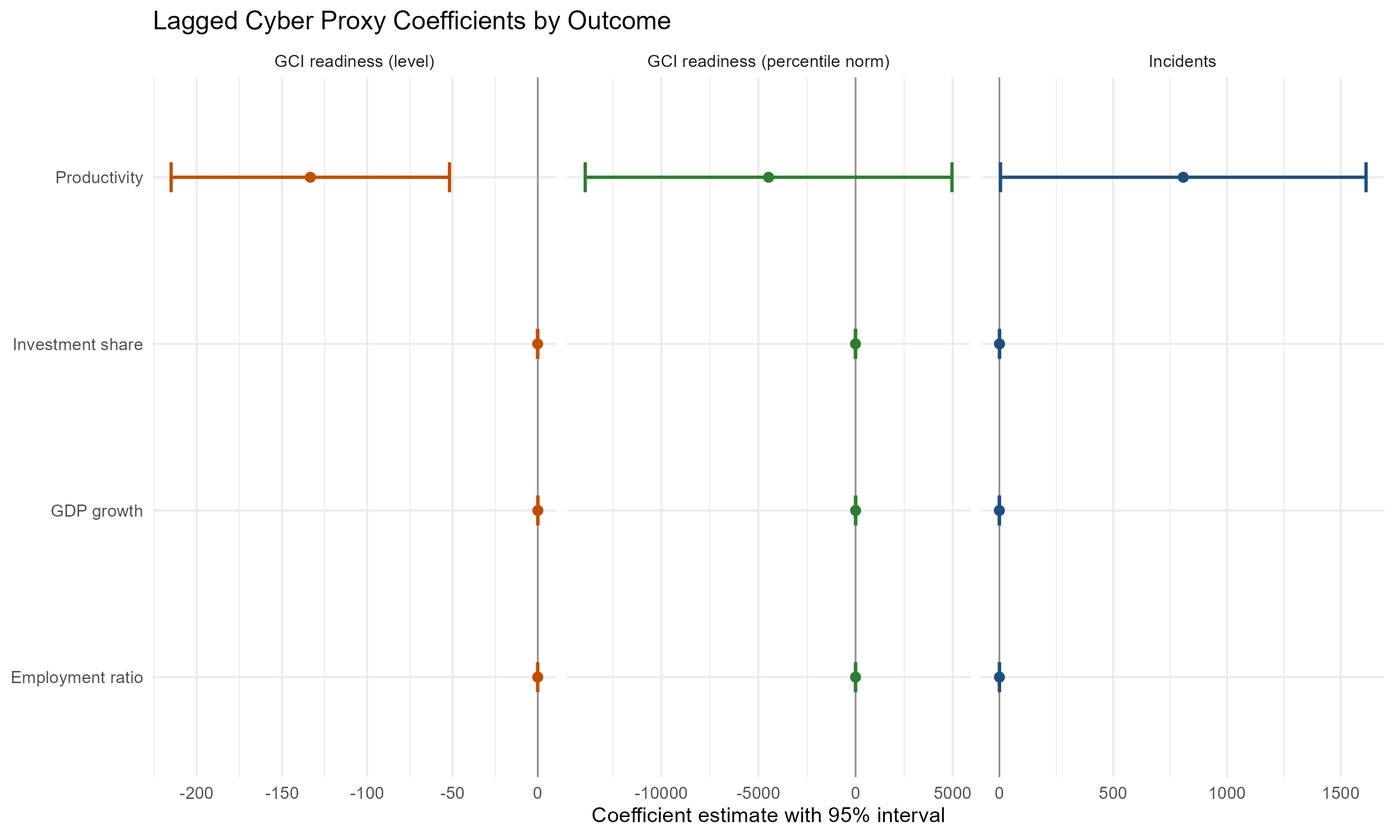
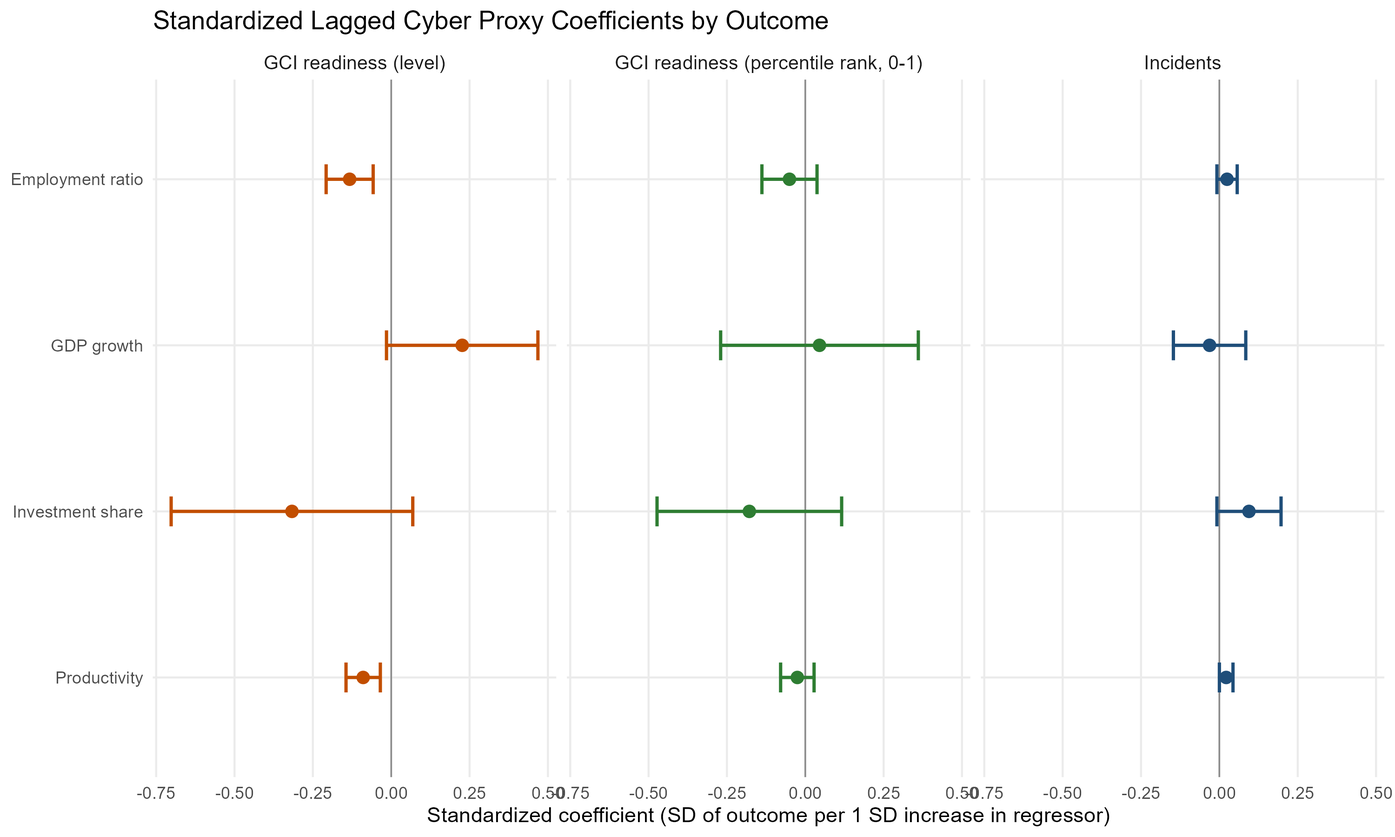
Standardize comparison coefficient figure

diff --git a/output/tables/incidents_vs_readiness_regressions.html b/output/tables/incidents_vs_readiness_regressions.html
@@ -4,7 +4,7 @@
   <head>
     <meta charset="UTF-8">
     <meta name="viewport" content="width=device-width, initial-scale=1.0">
-    <title>tinytable_ecv134pvdpu59y1r7212</title>
+    <title>tinytable_f0i5c3dkbfthkqi19tyy</title>
     <link href="https://cdn.jsdelivr.net/npm/bootstrap@5.3.2/dist/css/bootstrap.min.css" rel="stylesheet">
   </head>
   <body>
@@ -12,8 +12,8 @@
 
     <script>
 
-      function styleCell_ecv134pvdpu59y1r7212(i, j, css_id) {
-          var table = document.getElementById("tinytable_ecv134pvdpu59y1r7212");
+      function styleCell_f0i5c3dkbfthkqi19tyy(i, j, css_id) {
+          var table = document.getElementById("tinytable_f0i5c3dkbfthkqi19tyy");
           var cell = table.rows[i]?.cells[j];  // Safe navigation to avoid errors
           if (cell) {
               console.log(`Styling cell at (${i}, ${j}) with class ${css_id}`);
@@ -23,7 +23,7 @@
           }
       }
       function insertSpanRow(i, colspan, content) {
-        var table = document.getElementById('tinytable_ecv134pvdpu59y1r7212');
+        var table = document.getElementById('tinytable_f0i5c3dkbfthkqi19tyy');
         var newRow = table.insertRow(i);
         var newCell = newRow.insertCell(0);
         newCell.setAttribute("colspan", colspan);
@@ -31,8 +31,8 @@
         // this may be unsafe, but innerText does not interpret <br>
         newCell.innerHTML = content;
       }
-      function spanCell_ecv134pvdpu59y1r7212(i, j, rowspan, colspan) {
-        var table = document.getElementById("tinytable_ecv134pvdpu59y1r7212");
+      function spanCell_f0i5c3dkbfthkqi19tyy(i, j, rowspan, colspan) {
+        var table = document.getElementById("tinytable_f0i5c3dkbfthkqi19tyy");
         const targetRow = table.rows[i];
         const targetCell = targetRow.cells[j];
         for (let r = 0; r < rowspan; r++) {
@@ -62,20 +62,20 @@
       window.addEventListener('load', function () {
           var cellsToStyle = [
             // tinytable style arrays after
-          { positions: [ { i: 13, j: 4 }, { i: 13, j: 10 }, { i: 13, j: 7 }, { i: 13, j: 1 }, { i: 13, j: 2 }, { i: 13, j: 3 }, { i: 13, j: 5 }, { i: 13, j: 6 }, { i: 13, j: 8 }, { i: 13, j: 9 }, { i: 13, j: 11 }, { i: 13, j: 12 },  ], css_id: 'tinytable_css_p4causuuhxydtj86vz4f',}, 
-          { positions: [ { i: 12, j: 4 }, { i: 12, j: 5 }, { i: 12, j: 10 }, { i: 12, j: 11 }, { i: 12, j: 7 }, { i: 12, j: 8 }, { i: 12, j: 2 }, { i: 12, j: 3 }, { i: 12, j: 6 }, { i: 12, j: 1 }, { i: 12, j: 9 }, { i: 12, j: 12 },  ], css_id: 'tinytable_css_201s4wzyjvv98hfe48g5',}, 
-          { positions: [ { i: 10, j: 1 }, { i: 10, j: 4 }, { i: 9, j: 1 }, { i: 1, j: 1 }, { i: 3, j: 1 }, { i: 11, j: 4 }, { i: 5, j: 1 }, { i: 11, j: 1 }, { i: 7, j: 1 }, { i: 8, j: 1 }, { i: 8, j: 2 }, { i: 9, j: 2 }, { i: 10, j: 2 }, { i: 11, j: 2 }, { i: 10, j: 5 }, { i: 11, j: 5 }, { i: 1, j: 2 }, { i: 1, j: 3 }, { i: 3, j: 2 }, { i: 3, j: 3 }, { i: 5, j: 2 }, { i: 5, j: 3 }, { i: 7, j: 2 }, { i: 7, j: 3 }, { i: 8, j: 3 }, { i: 9, j: 3 }, { i: 10, j: 3 }, { i: 11, j: 3 }, { i: 10, j: 6 }, { i: 11, j: 6 }, { i: 2, j: 1 }, { i: 1, j: 4 }, { i: 4, j: 1 }, { i: 3, j: 4 }, { i: 6, j: 1 }, { i: 5, j: 4 }, { i: 6, j: 4 }, { i: 7, j: 4 }, { i: 8, j: 4 }, { i: 9, j: 4 }, { i: 8, j: 7 }, { i: 9, j: 7 }, { i: 10, j: 7 }, { i: 11, j: 7 }, { i: 2, j: 2 }, { i: 1, j: 5 }, { i: 4, j: 2 }, { i: 3, j: 5 }, { i: 6, j: 2 }, { i: 5, j: 5 }, { i: 6, j: 5 }, { i: 7, j: 5 }, { i: 8, j: 5 }, { i: 9, j: 5 }, { i: 8, j: 8 }, { i: 9, j: 8 }, { i: 10, j: 8 }, { i: 11, j: 8 }, { i: 2, j: 3 }, { i: 1, j: 6 }, { i: 4, j: 3 }, { i: 3, j: 6 }, { i: 6, j: 3 }, { i: 5, j: 6 }, { i: 6, j: 6 }, { i: 7, j: 6 }, { i: 8, j: 6 }, { i: 9, j: 6 }, { i: 8, j: 9 }, { i: 9, j: 9 }, { i: 10, j: 9 }, { i: 11, j: 9 }, { i: 2, j: 4 }, { i: 1, j: 7 }, { i: 4, j: 4 }, { i: 3, j: 7 }, { i: 4, j: 7 }, { i: 5, j: 7 }, { i: 6, j: 7 }, { i: 7, j: 7 }, { i: 6, j: 10 }, { i: 7, j: 10 }, { i: 8, j: 10 }, { i: 9, j: 10 }, { i: 10, j: 10 }, { i: 11, j: 10 }, { i: 2, j: 5 }, { i: 1, j: 8 }, { i: 4, j: 5 }, { i: 3, j: 8 }, { i: 4, j: 8 }, { i: 5, j: 8 }, { i: 6, j: 8 }, { i: 7, j: 8 }, { i: 6, j: 11 }, { i: 7, j: 11 }, { i: 8, j: 11 }, { i: 9, j: 11 }, { i: 10, j: 11 }, { i: 11, j: 11 }, { i: 2, j: 6 }, { i: 1, j: 9 }, { i: 4, j: 6 }, { i: 3, j: 9 }, { i: 4, j: 9 }, { i: 5, j: 9 }, { i: 6, j: 9 }, { i: 7, j: 9 }, { i: 6, j: 12 }, { i: 7, j: 12 }, { i: 8, j: 12 }, { i: 9, j: 12 }, { i: 10, j: 12 }, { i: 11, j: 12 }, { i: 2, j: 7 }, { i: 1, j: 10 }, { i: 2, j: 10 }, { i: 3, j: 10 }, { i: 4, j: 10 }, { i: 5, j: 10 }, { i: 5, j: 11 }, { i: 5, j: 12 }, { i: 2, j: 11 }, { i: 3, j: 11 }, { i: 2, j: 8 }, { i: 1, j: 11 }, { i: 2, j: 9 }, { i: 1, j: 12 }, { i: 4, j: 11 }, { i: 4, j: 12 }, { i: 2, j: 12 }, { i: 3, j: 12 },  ], css_id: 'tinytable_css_c1its78gbmmuinlsssd4',}, 
-          { positions: [ { i: 0, j: 1 }, { i: 0, j: 2 }, { i: 0, j: 4 }, { i: 0, j: 5 }, { i: 0, j: 7 }, { i: 0, j: 8 }, { i: 0, j: 10 }, { i: 0, j: 11 }, { i: 0, j: 12 }, { i: 0, j: 6 }, { i: 0, j: 3 }, { i: 0, j: 9 },  ], css_id: 'tinytable_css_m8lhvw971z7o2s52qb76',}, 
-          { positions: [ { i: 13, j: 0 },  ], css_id: 'tinytable_css_1qjwynlh6jjx4f71yccl',}, 
-          { positions: [ { i: 12, j: 0 },  ], css_id: 'tinytable_css_i5pbemaolb12dd8akl59',}, 
-          { positions: [ { i: 1, j: 0 }, { i: 2, j: 0 }, { i: 3, j: 0 }, { i: 4, j: 0 }, { i: 5, j: 0 }, { i: 6, j: 0 }, { i: 7, j: 0 }, { i: 8, j: 0 }, { i: 9, j: 0 }, { i: 10, j: 0 }, { i: 11, j: 0 },  ], css_id: 'tinytable_css_r011i5s1ufg29338slek',}, 
-          { positions: [ { i: 0, j: 0 },  ], css_id: 'tinytable_css_1n99m925m0dgbd6exfvg',}, 
+          { positions: [ { i: 13, j: 4 }, { i: 13, j: 10 }, { i: 13, j: 7 }, { i: 13, j: 1 }, { i: 13, j: 2 }, { i: 13, j: 3 }, { i: 13, j: 5 }, { i: 13, j: 6 }, { i: 13, j: 8 }, { i: 13, j: 9 }, { i: 13, j: 11 }, { i: 13, j: 12 },  ], css_id: 'tinytable_css_4oqyls9eijw3j7uhaoks',}, 
+          { positions: [ { i: 12, j: 4 }, { i: 12, j: 5 }, { i: 12, j: 10 }, { i: 12, j: 11 }, { i: 12, j: 7 }, { i: 12, j: 8 }, { i: 12, j: 2 }, { i: 12, j: 3 }, { i: 12, j: 6 }, { i: 12, j: 1 }, { i: 12, j: 9 }, { i: 12, j: 12 },  ], css_id: 'tinytable_css_dprmf267gwi876w7le5j',}, 
+          { positions: [ { i: 10, j: 1 }, { i: 10, j: 4 }, { i: 9, j: 1 }, { i: 1, j: 1 }, { i: 3, j: 1 }, { i: 11, j: 4 }, { i: 5, j: 1 }, { i: 11, j: 1 }, { i: 7, j: 1 }, { i: 8, j: 1 }, { i: 8, j: 2 }, { i: 9, j: 2 }, { i: 10, j: 2 }, { i: 11, j: 2 }, { i: 10, j: 5 }, { i: 11, j: 5 }, { i: 1, j: 2 }, { i: 1, j: 3 }, { i: 3, j: 2 }, { i: 3, j: 3 }, { i: 5, j: 2 }, { i: 5, j: 3 }, { i: 7, j: 2 }, { i: 7, j: 3 }, { i: 8, j: 3 }, { i: 9, j: 3 }, { i: 10, j: 3 }, { i: 11, j: 3 }, { i: 10, j: 6 }, { i: 11, j: 6 }, { i: 2, j: 1 }, { i: 1, j: 4 }, { i: 4, j: 1 }, { i: 3, j: 4 }, { i: 6, j: 1 }, { i: 5, j: 4 }, { i: 6, j: 4 }, { i: 7, j: 4 }, { i: 8, j: 4 }, { i: 9, j: 4 }, { i: 8, j: 7 }, { i: 9, j: 7 }, { i: 10, j: 7 }, { i: 11, j: 7 }, { i: 2, j: 2 }, { i: 1, j: 5 }, { i: 4, j: 2 }, { i: 3, j: 5 }, { i: 6, j: 2 }, { i: 5, j: 5 }, { i: 6, j: 5 }, { i: 7, j: 5 }, { i: 8, j: 5 }, { i: 9, j: 5 }, { i: 8, j: 8 }, { i: 9, j: 8 }, { i: 10, j: 8 }, { i: 11, j: 8 }, { i: 2, j: 3 }, { i: 1, j: 6 }, { i: 4, j: 3 }, { i: 3, j: 6 }, { i: 6, j: 3 }, { i: 5, j: 6 }, { i: 6, j: 6 }, { i: 7, j: 6 }, { i: 8, j: 6 }, { i: 9, j: 6 }, { i: 8, j: 9 }, { i: 9, j: 9 }, { i: 10, j: 9 }, { i: 11, j: 9 }, { i: 2, j: 4 }, { i: 1, j: 7 }, { i: 4, j: 4 }, { i: 3, j: 7 }, { i: 4, j: 7 }, { i: 5, j: 7 }, { i: 6, j: 7 }, { i: 7, j: 7 }, { i: 6, j: 10 }, { i: 7, j: 10 }, { i: 8, j: 10 }, { i: 9, j: 10 }, { i: 10, j: 10 }, { i: 11, j: 10 }, { i: 2, j: 5 }, { i: 1, j: 8 }, { i: 4, j: 5 }, { i: 3, j: 8 }, { i: 4, j: 8 }, { i: 5, j: 8 }, { i: 6, j: 8 }, { i: 7, j: 8 }, { i: 6, j: 11 }, { i: 7, j: 11 }, { i: 8, j: 11 }, { i: 9, j: 11 }, { i: 10, j: 11 }, { i: 11, j: 11 }, { i: 2, j: 6 }, { i: 1, j: 9 }, { i: 4, j: 6 }, { i: 3, j: 9 }, { i: 4, j: 9 }, { i: 5, j: 9 }, { i: 6, j: 9 }, { i: 7, j: 9 }, { i: 6, j: 12 }, { i: 7, j: 12 }, { i: 8, j: 12 }, { i: 9, j: 12 }, { i: 10, j: 12 }, { i: 11, j: 12 }, { i: 2, j: 7 }, { i: 1, j: 10 }, { i: 2, j: 10 }, { i: 3, j: 10 }, { i: 4, j: 10 }, { i: 5, j: 10 }, { i: 5, j: 11 }, { i: 5, j: 12 }, { i: 2, j: 11 }, { i: 3, j: 11 }, { i: 2, j: 8 }, { i: 1, j: 11 }, { i: 2, j: 9 }, { i: 1, j: 12 }, { i: 4, j: 11 }, { i: 4, j: 12 }, { i: 2, j: 12 }, { i: 3, j: 12 },  ], css_id: 'tinytable_css_rntnm1u3oeljhexng0og',}, 
+          { positions: [ { i: 0, j: 1 }, { i: 0, j: 2 }, { i: 0, j: 4 }, { i: 0, j: 5 }, { i: 0, j: 7 }, { i: 0, j: 8 }, { i: 0, j: 10 }, { i: 0, j: 11 }, { i: 0, j: 12 }, { i: 0, j: 6 }, { i: 0, j: 3 }, { i: 0, j: 9 },  ], css_id: 'tinytable_css_6195calqo8x2f29txpq1',}, 
+          { positions: [ { i: 13, j: 0 },  ], css_id: 'tinytable_css_dkbjj6xsdri6622djea5',}, 
+          { positions: [ { i: 12, j: 0 },  ], css_id: 'tinytable_css_8267pkjyl67784qm3k06',}, 
+          { positions: [ { i: 1, j: 0 }, { i: 2, j: 0 }, { i: 3, j: 0 }, { i: 4, j: 0 }, { i: 5, j: 0 }, { i: 6, j: 0 }, { i: 7, j: 0 }, { i: 8, j: 0 }, { i: 9, j: 0 }, { i: 10, j: 0 }, { i: 11, j: 0 },  ], css_id: 'tinytable_css_fs7htn12xcixmpfsjp24',}, 
+          { positions: [ { i: 0, j: 0 },  ], css_id: 'tinytable_css_byzvubivt4o8r6ov403c',}, 
           ];
 
           // Loop over the arrays to style the cells
           cellsToStyle.forEach(function (group) {
               group.positions.forEach(function (cell) {
-                  styleCell_ecv134pvdpu59y1r7212(cell.i, cell.j, group.css_id);
+                  styleCell_f0i5c3dkbfthkqi19tyy(cell.i, cell.j, group.css_id);
               });
           });
       });
@@ -83,17 +83,17 @@
 
     <style>
       /* tinytable css entries after */
-      .table td.tinytable_css_p4causuuhxydtj86vz4f, .table th.tinytable_css_p4causuuhxydtj86vz4f { text-align: center; border-bottom: solid #d3d8dc 0.1em; }
-      .table td.tinytable_css_201s4wzyjvv98hfe48g5, .table th.tinytable_css_201s4wzyjvv98hfe48g5 { text-align: center; border-bottom: solid black 0.05em; }
-      .table td.tinytable_css_c1its78gbmmuinlsssd4, .table th.tinytable_css_c1its78gbmmuinlsssd4 { text-align: center; }
-      .table td.tinytable_css_m8lhvw971z7o2s52qb76, .table th.tinytable_css_m8lhvw971z7o2s52qb76 { text-align: center; border-top: solid #d3d8dc 0.1em; border-bottom: solid #d3d8dc 0.05em; }
-      .table td.tinytable_css_1qjwynlh6jjx4f71yccl, .table th.tinytable_css_1qjwynlh6jjx4f71yccl { text-align: left; border-bottom: solid #d3d8dc 0.1em; }
-      .table td.tinytable_css_i5pbemaolb12dd8akl59, .table th.tinytable_css_i5pbemaolb12dd8akl59 { text-align: left; border-bottom: solid black 0.05em; }
-      .table td.tinytable_css_r011i5s1ufg29338slek, .table th.tinytable_css_r011i5s1ufg29338slek { text-align: left; }
-      .table td.tinytable_css_1n99m925m0dgbd6exfvg, .table th.tinytable_css_1n99m925m0dgbd6exfvg { text-align: left; border-top: solid #d3d8dc 0.1em; border-bottom: solid #d3d8dc 0.05em; }
+      .table td.tinytable_css_4oqyls9eijw3j7uhaoks, .table th.tinytable_css_4oqyls9eijw3j7uhaoks { text-align: center; border-bottom: solid #d3d8dc 0.1em; }
+      .table td.tinytable_css_dprmf267gwi876w7le5j, .table th.tinytable_css_dprmf267gwi876w7le5j { text-align: center; border-bottom: solid black 0.05em; }
+      .table td.tinytable_css_rntnm1u3oeljhexng0og, .table th.tinytable_css_rntnm1u3oeljhexng0og { text-align: center; }
+      .table td.tinytable_css_6195calqo8x2f29txpq1, .table th.tinytable_css_6195calqo8x2f29txpq1 { text-align: center; border-top: solid #d3d8dc 0.1em; border-bottom: solid #d3d8dc 0.05em; }
+      .table td.tinytable_css_dkbjj6xsdri6622djea5, .table th.tinytable_css_dkbjj6xsdri6622djea5 { text-align: left; border-bottom: solid #d3d8dc 0.1em; }
+      .table td.tinytable_css_8267pkjyl67784qm3k06, .table th.tinytable_css_8267pkjyl67784qm3k06 { text-align: left; border-bottom: solid black 0.05em; }
+      .table td.tinytable_css_fs7htn12xcixmpfsjp24, .table th.tinytable_css_fs7htn12xcixmpfsjp24 { text-align: left; }
+      .table td.tinytable_css_byzvubivt4o8r6ov403c, .table th.tinytable_css_byzvubivt4o8r6ov403c { text-align: left; border-top: solid #d3d8dc 0.1em; border-bottom: solid #d3d8dc 0.05em; }
     </style>
     <div class="container">
-      <table class="table table-borderless" id="tinytable_ecv134pvdpu59y1r7212" style="width: auto; margin-left: auto; margin-right: auto;" data-quarto-disable-processing='true'>
+      <table class="table table-borderless" id="tinytable_f0i5c3dkbfthkqi19tyy" style="width: auto; margin-left: auto; margin-right: auto;" data-quarto-disable-processing='true'>
         <thead>
         
               <tr>

diff --git a/output/tables/robustness_regressions.html b/output/tables/robustness_regressions.html
@@ -4,7 +4,7 @@
   <head>
     <meta charset="UTF-8">
     <meta name="viewport" content="width=device-width, initial-scale=1.0">
-    <title>tinytable_bovs0y4cksphdue8my70</title>
+    <title>tinytable_esbsaq4c2b3t77pedwhx</title>
     <link href="https://cdn.jsdelivr.net/npm/bootstrap@5.3.2/dist/css/bootstrap.min.css" rel="stylesheet">
   </head>
   <body>
@@ -12,8 +12,8 @@
 
     <script>
 
-      function styleCell_bovs0y4cksphdue8my70(i, j, css_id) {
-          var table = document.getElementById("tinytable_bovs0y4cksphdue8my70");
+      function styleCell_esbsaq4c2b3t77pedwhx(i, j, css_id) {
+          var table = document.getElementById("tinytable_esbsaq4c2b3t77pedwhx");
           var cell = table.rows[i]?.cells[j];  // Safe navigation to avoid errors
           if (cell) {
               console.log(`Styling cell at (${i}, ${j}) with class ${css_id}`);
@@ -23,7 +23,7 @@
           }
       }
       function insertSpanRow(i, colspan, content) {
-        var table = document.getElementById('tinytable_bovs0y4cksphdue8my70');
+        var table = document.getElementById('tinytable_esbsaq4c2b3t77pedwhx');
         var newRow = table.insertRow(i);
         var newCell = newRow.insertCell(0);
         newCell.setAttribute("colspan", colspan);
@@ -31,8 +31,8 @@
         // this may be unsafe, but innerText does not interpret <br>
         newCell.innerHTML = content;
       }
-      function spanCell_bovs0y4cksphdue8my70(i, j, rowspan, colspan) {
-        var table = document.getElementById("tinytable_bovs0y4cksphdue8my70");
+      function spanCell_esbsaq4c2b3t77pedwhx(i, j, rowspan, colspan) {
+        var table = document.getElementById("tinytable_esbsaq4c2b3t77pedwhx");
         const targetRow = table.rows[i];
         const targetCell = targetRow.cells[j];
         for (let r = 0; r < rowspan; r++) {
@@ -62,20 +62,20 @@
       window.addEventListener('load', function () {
           var cellsToStyle = [
             // tinytable style arrays after
-          { positions: [ { i: 11, j: 3 }, { i: 11, j: 2 }, { i: 11, j: 1 }, { i: 11, j: 4 },  ], css_id: 'tinytable_css_iwz1i64svg33ctux7zpb',}, 
-          { positions: [ { i: 10, j: 2 }, { i: 10, j: 1 }, { i: 10, j: 3 }, { i: 10, j: 4 },  ], css_id: 'tinytable_css_o46evq5hmt6sud4y1fy6',}, 
-          { positions: [ { i: 1, j: 1 }, { i: 5, j: 1 }, { i: 2, j: 1 }, { i: 3, j: 1 }, { i: 4, j: 1 }, { i: 9, j: 1 }, { i: 6, j: 1 }, { i: 7, j: 1 }, { i: 8, j: 1 }, { i: 1, j: 2 }, { i: 2, j: 2 }, { i: 3, j: 2 }, { i: 4, j: 2 }, { i: 5, j: 2 }, { i: 6, j: 2 }, { i: 7, j: 2 }, { i: 8, j: 2 }, { i: 9, j: 2 }, { i: 2, j: 3 }, { i: 3, j: 3 }, { i: 1, j: 4 }, { i: 1, j: 3 }, { i: 6, j: 3 }, { i: 7, j: 3 }, { i: 4, j: 3 }, { i: 5, j: 3 }, { i: 2, j: 4 }, { i: 3, j: 4 }, { i: 8, j: 3 }, { i: 9, j: 3 }, { i: 6, j: 4 }, { i: 7, j: 4 }, { i: 4, j: 4 }, { i: 5, j: 4 }, { i: 8, j: 4 }, { i: 9, j: 4 },  ], css_id: 'tinytable_css_yw3e2vezopi59y9fdm4a',}, 
-          { positions: [ { i: 0, j: 1 }, { i: 0, j: 4 }, { i: 0, j: 3 }, { i: 0, j: 2 },  ], css_id: 'tinytable_css_g91im5t2fx69gvb2o6yd',}, 
-          { positions: [ { i: 11, j: 0 },  ], css_id: 'tinytable_css_ig6gxzeygscau2e2hyyn',}, 
-          { positions: [ { i: 10, j: 0 },  ], css_id: 'tinytable_css_reh6mj0sg6f2zxaxt7zm',}, 
-          { positions: [ { i: 1, j: 0 }, { i: 2, j: 0 }, { i: 3, j: 0 }, { i: 4, j: 0 }, { i: 5, j: 0 }, { i: 6, j: 0 }, { i: 7, j: 0 }, { i: 8, j: 0 }, { i: 9, j: 0 },  ], css_id: 'tinytable_css_nyu1tg8yb9pdwouvfa3z',}, 
-          { positions: [ { i: 0, j: 0 },  ], css_id: 'tinytable_css_cfsjtx5j4pbp7syl4lnd',}, 
+          { positions: [ { i: 11, j: 3 }, { i: 11, j: 2 }, { i: 11, j: 1 }, { i: 11, j: 4 },  ], css_id: 'tinytable_css_nwulkxvq5ypei3p5upn1',}, 
+          { positions: [ { i: 10, j: 2 }, { i: 10, j: 1 }, { i: 10, j: 3 }, { i: 10, j: 4 },  ], css_id: 'tinytable_css_k0oe6pr0cxrfiogs9vnh',}, 
+          { positions: [ { i: 1, j: 1 }, { i: 5, j: 1 }, { i: 2, j: 1 }, { i: 3, j: 1 }, { i: 4, j: 1 }, { i: 9, j: 1 }, { i: 6, j: 1 }, { i: 7, j: 1 }, { i: 8, j: 1 }, { i: 1, j: 2 }, { i: 2, j: 2 }, { i: 3, j: 2 }, { i: 4, j: 2 }, { i: 5, j: 2 }, { i: 6, j: 2 }, { i: 7, j: 2 }, { i: 8, j: 2 }, { i: 9, j: 2 }, { i: 2, j: 3 }, { i: 3, j: 3 }, { i: 1, j: 4 }, { i: 1, j: 3 }, { i: 6, j: 3 }, { i: 7, j: 3 }, { i: 4, j: 3 }, { i: 5, j: 3 }, { i: 2, j: 4 }, { i: 3, j: 4 }, { i: 8, j: 3 }, { i: 9, j: 3 }, { i: 6, j: 4 }, { i: 7, j: 4 }, { i: 4, j: 4 }, { i: 5, j: 4 }, { i: 8, j: 4 }, { i: 9, j: 4 },  ], css_id: 'tinytable_css_0kpdabj4494kmw8xygvz',}, 
+          { positions: [ { i: 0, j: 1 }, { i: 0, j: 4 }, { i: 0, j: 3 }, { i: 0, j: 2 },  ], css_id: 'tinytable_css_pawknlbjgaoi22lj8imo',}, 
+          { positions: [ { i: 11, j: 0 },  ], css_id: 'tinytable_css_hu1w3ffhsfns6od30q9p',}, 
+          { positions: [ { i: 10, j: 0 },  ], css_id: 'tinytable_css_n63oi3mxiv4klogesp5r',}, 
+          { positions: [ { i: 1, j: 0 }, { i: 2, j: 0 }, { i: 3, j: 0 }, { i: 4, j: 0 }, { i: 5, j: 0 }, { i: 6, j: 0 }, { i: 7, j: 0 }, { i: 8, j: 0 }, { i: 9, j: 0 },  ], css_id: 'tinytable_css_mla6pzlaomlo8pfzm5ar',}, 
+          { positions: [ { i: 0, j: 0 },  ], css_id: 'tinytable_css_p9wqvwa1x63lu7wro4fw',}, 
           ];
 
           // Loop over the arrays to style the cells
           cellsToStyle.forEach(function (group) {
               group.positions.forEach(function (cell) {
-                  styleCell_bovs0y4cksphdue8my70(cell.i, cell.j, group.css_id);
+                  styleCell_esbsaq4c2b3t77pedwhx(cell.i, cell.j, group.css_id);
               });
           });
       });
@@ -83,17 +83,17 @@
 
     <style>
       /* tinytable css entries after */
-      .table td.tinytable_css_iwz1i64svg33ctux7zpb, .table th.tinytable_css_iwz1i64svg33ctux7zpb { text-align: center; border-bottom: solid #d3d8dc 0.1em; }
-      .table td.tinytable_css_o46evq5hmt6sud4y1fy6, .table th.tinytable_css_o46evq5hmt6sud4y1fy6 { text-align: center; border-bottom: solid black 0.05em; }
-      .table td.tinytable_css_yw3e2vezopi59y9fdm4a, .table th.tinytable_css_yw3e2vezopi59y9fdm4a { text-align: center; }
-      .table td.tinytable_css_g91im5t2fx69gvb2o6yd, .table th.tinytable_css_g91im5t2fx69gvb2o6yd { text-align: center; border-top: solid #d3d8dc 0.1em; border-bottom: solid #d3d8dc 0.05em; }
-      .table td.tinytable_css_ig6gxzeygscau2e2hyyn, .table th.tinytable_css_ig6gxzeygscau2e2hyyn { text-align: left; border-bottom: solid #d3d8dc 0.1em; }
-      .table td.tinytable_css_reh6mj0sg6f2zxaxt7zm, .table th.tinytable_css_reh6mj0sg6f2zxaxt7zm { text-align: left; border-bottom: solid black 0.05em; }
-      .table td.tinytable_css_nyu1tg8yb9pdwouvfa3z, .table th.tinytable_css_nyu1tg8yb9pdwouvfa3z { text-align: left; }
-      .table td.tinytable_css_cfsjtx5j4pbp7syl4lnd, .table th.tinytable_css_cfsjtx5j4pbp7syl4lnd { text-align: left; border-top: solid #d3d8dc 0.1em; border-bottom: solid #d3d8dc 0.05em; }
+      .table td.tinytable_css_nwulkxvq5ypei3p5upn1, .table th.tinytable_css_nwulkxvq5ypei3p5upn1 { text-align: center; border-bottom: solid #d3d8dc 0.1em; }
+      .table td.tinytable_css_k0oe6pr0cxrfiogs9vnh, .table th.tinytable_css_k0oe6pr0cxrfiogs9vnh { text-align: center; border-bottom: solid black 0.05em; }
+      .table td.tinytable_css_0kpdabj4494kmw8xygvz, .table th.tinytable_css_0kpdabj4494kmw8xygvz { text-align: center; }
+      .table td.tinytable_css_pawknlbjgaoi22lj8imo, .table th.tinytable_css_pawknlbjgaoi22lj8imo { text-align: center; border-top: solid #d3d8dc 0.1em; border-bottom: solid #d3d8dc 0.05em; }
+      .table td.tinytable_css_hu1w3ffhsfns6od30q9p, .table th.tinytable_css_hu1w3ffhsfns6od30q9p { text-align: left; border-bottom: solid #d3d8dc 0.1em; }
+      .table td.tinytable_css_n63oi3mxiv4klogesp5r, .table th.tinytable_css_n63oi3mxiv4klogesp5r { text-align: left; border-bottom: solid black 0.05em; }
+      .table td.tinytable_css_mla6pzlaomlo8pfzm5ar, .table th.tinytable_css_mla6pzlaomlo8pfzm5ar { text-align: left; }
+      .table td.tinytable_css_p9wqvwa1x63lu7wro4fw, .table th.tinytable_css_p9wqvwa1x63lu7wro4fw { text-align: left; border-top: solid #d3d8dc 0.1em; border-bottom: solid #d3d8dc 0.05em; }
     </style>
     <div class="container">
-      <table class="table table-borderless" id="tinytable_bovs0y4cksphdue8my70" style="width: auto; margin-left: auto; margin-right: auto;" data-quarto-disable-processing='true'>
+      <table class="table table-borderless" id="tinytable_esbsaq4c2b3t77pedwhx" style="width: auto; margin-left: auto; margin-right: auto;" data-quarto-disable-processing='true'>
         <thead>
         
               <tr>

diff --git a/output/tables/headline_regressions.html b/output/tables/headline_regressions.html
@@ -4,7 +4,7 @@
   <head>
     <meta charset="UTF-8">
     <meta name="viewport" content="width=device-width, initial-scale=1.0">
-    <title>tinytable_p9febpma9s9r595fzgya</title>
+    <title>tinytable_oceyfy1nvuab5gjk6tuw</title>
     <link href="https://cdn.jsdelivr.net/npm/bootstrap@5.3.2/dist/css/bootstrap.min.css" rel="stylesheet">
   </head>
   <body>
@@ -12,8 +12,8 @@
 
     <script>
 
-      function styleCell_p9febpma9s9r595fzgya(i, j, css_id) {
-          var table = document.getElementById("tinytable_p9febpma9s9r595fzgya");
+      function styleCell_oceyfy1nvuab5gjk6tuw(i, j, css_id) {
+          var table = document.getElementById("tinytable_oceyfy1nvuab5gjk6tuw");
           var cell = table.rows[i]?.cells[j];  // Safe navigation to avoid errors
           if (cell) {
               console.log(`Styling cell at (${i}, ${j}) with class ${css_id}`);
@@ -23,7 +23,7 @@
           }
       }
       function insertSpanRow(i, colspan, content) {
-        var table = document.getElementById('tinytable_p9febpma9s9r595fzgya');
+        var table = document.getElementById('tinytable_oceyfy1nvuab5gjk6tuw');
         var newRow = table.insertRow(i);
         var newCell = newRow.insertCell(0);
         newCell.setAttribute("colspan", colspan);
@@ -31,8 +31,8 @@
         // this may be unsafe, but innerText does not interpret <br>
         newCell.innerHTML = content;
       }
-      function spanCell_p9febpma9s9r595fzgya(i, j, rowspan, colspan) {
-        var table = document.getElementById("tinytable_p9febpma9s9r595fzgya");
+      function spanCell_oceyfy1nvuab5gjk6tuw(i, j, rowspan, colspan) {
+        var table = document.getElementById("tinytable_oceyfy1nvuab5gjk6tuw");
         const targetRow = table.rows[i];
         const targetCell = targetRow.cells[j];
         for (let r = 0; r < rowspan; r++) {
@@ -62,20 +62,20 @@
       window.addEventListener('load', function () {
           var cellsToStyle = [
             // tinytable style arrays after
-          { positions: [ { i: 9, j: 1 }, { i: 9, j: 2 }, { i: 9, j: 3 }, { i: 9, j: 4 },  ], css_id: 'tinytable_css_aiiwb7xn4xslprrbcxvo',}, 
-          { positions: [ { i: 8, j: 2 }, { i: 8, j: 3 }, { i: 8, j: 1 }, { i: 8, j: 4 },  ], css_id: 'tinytable_css_hr7kuhrvmccdljuspl9o',}, 
-          { positions: [ { i: 1, j: 1 }, { i: 5, j: 1 }, { i: 2, j: 1 }, { i: 3, j: 1 }, { i: 1, j: 3 }, { i: 2, j: 3 }, { i: 6, j: 1 }, { i: 1, j: 2 }, { i: 2, j: 2 }, { i: 3, j: 2 }, { i: 4, j: 2 }, { i: 5, j: 2 }, { i: 6, j: 2 }, { i: 4, j: 1 }, { i: 1, j: 4 }, { i: 2, j: 4 }, { i: 7, j: 1 }, { i: 4, j: 4 }, { i: 5, j: 4 }, { i: 3, j: 3 }, { i: 4, j: 3 }, { i: 5, j: 3 }, { i: 6, j: 3 }, { i: 7, j: 3 }, { i: 6, j: 4 }, { i: 3, j: 4 }, { i: 7, j: 2 }, { i: 7, j: 4 },  ], css_id: 'tinytable_css_dv9nds5yxeivwtpwvkhx',}, 
-          { positions: [ { i: 0, j: 1 }, { i: 0, j: 2 }, { i: 0, j: 3 }, { i: 0, j: 4 },  ], css_id: 'tinytable_css_u3v8hx282jmvf9eo3kpg',}, 
-          { positions: [ { i: 9, j: 0 },  ], css_id: 'tinytable_css_gidybs5kcn1mxoyh7sww',}, 
-          { positions: [ { i: 8, j: 0 },  ], css_id: 'tinytable_css_njt975r0h56s2zj79mx6',}, 
-          { positions: [ { i: 1, j: 0 }, { i: 2, j: 0 }, { i: 3, j: 0 }, { i: 4, j: 0 }, { i: 5, j: 0 }, { i: 6, j: 0 }, { i: 7, j: 0 },  ], css_id: 'tinytable_css_57mtwp1h378dsid9ygkc',}, 
-          { positions: [ { i: 0, j: 0 },  ], css_id: 'tinytable_css_ek12f8f7zlp4kqnp0d9p',}, 
+          { positions: [ { i: 9, j: 1 }, { i: 9, j: 2 }, { i: 9, j: 3 }, { i: 9, j: 4 },  ], css_id: 'tinytable_css_nuxvynf3q9is8kmwzjwd',}, 
+          { positions: [ { i: 8, j: 2 }, { i: 8, j: 3 }, { i: 8, j: 1 }, { i: 8, j: 4 },  ], css_id: 'tinytable_css_0ppvl9cni9j0o0kk4stt',}, 
+          { positions: [ { i: 1, j: 1 }, { i: 5, j: 1 }, { i: 2, j: 1 }, { i: 3, j: 1 }, { i: 1, j: 3 }, { i: 2, j: 3 }, { i: 6, j: 1 }, { i: 1, j: 2 }, { i: 2, j: 2 }, { i: 3, j: 2 }, { i: 4, j: 2 }, { i: 5, j: 2 }, { i: 6, j: 2 }, { i: 4, j: 1 }, { i: 1, j: 4 }, { i: 2, j: 4 }, { i: 7, j: 1 }, { i: 4, j: 4 }, { i: 5, j: 4 }, { i: 3, j: 3 }, { i: 4, j: 3 }, { i: 5, j: 3 }, { i: 6, j: 3 }, { i: 7, j: 3 }, { i: 6, j: 4 }, { i: 3, j: 4 }, { i: 7, j: 2 }, { i: 7, j: 4 },  ], css_id: 'tinytable_css_nl6dpc6ehtqxc8xoqjtf',}, 
+          { positions: [ { i: 0, j: 1 }, { i: 0, j: 2 }, { i: 0, j: 3 }, { i: 0, j: 4 },  ], css_id: 'tinytable_css_h3bysdvoxr1rc4bn8x50',}, 
+          { positions: [ { i: 9, j: 0 },  ], css_id: 'tinytable_css_ds3ynvoq7l7mme8kee5e',}, 
+          { positions: [ { i: 8, j: 0 },  ], css_id: 'tinytable_css_uz8u665gu8matnko7opf',}, 
+          { positions: [ { i: 1, j: 0 }, { i: 2, j: 0 }, { i: 3, j: 0 }, { i: 4, j: 0 }, { i: 5, j: 0 }, { i: 6, j: 0 }, { i: 7, j: 0 },  ], css_id: 'tinytable_css_dr1nl5ghev6o1ffu6kfx',}, 
+          { positions: [ { i: 0, j: 0 },  ], css_id: 'tinytable_css_s3gjsl9giusz3d5srkgl',}, 
           ];
 
           // Loop over the arrays to style the cells
           cellsToStyle.forEach(function (group) {
               group.positions.forEach(function (cell) {
-                  styleCell_p9febpma9s9r595fzgya(cell.i, cell.j, group.css_id);
+                  styleCell_oceyfy1nvuab5gjk6tuw(cell.i, cell.j, group.css_id);
               });
           });
       });
@@ -83,17 +83,17 @@
 
     <style>
       /* tinytable css entries after */
-      .table td.tinytable_css_aiiwb7xn4xslprrbcxvo, .table th.tinytable_css_aiiwb7xn4xslprrbcxvo { text-align: center; border-bottom: solid #d3d8dc 0.1em; }
-      .table td.tinytable_css_hr7kuhrvmccdljuspl9o, .table th.tinytable_css_hr7kuhrvmccdljuspl9o { text-align: center; border-bottom: solid black 0.05em; }
-      .table td.tinytable_css_dv9nds5yxeivwtpwvkhx, .table th.tinytable_css_dv9nds5yxeivwtpwvkhx { text-align: center; }
-      .table td.tinytable_css_u3v8hx282jmvf9eo3kpg, .table th.tinytable_css_u3v8hx282jmvf9eo3kpg { text-align: center; border-top: solid #d3d8dc 0.1em; border-bottom: solid #d3d8dc 0.05em; }
-      .table td.tinytable_css_gidybs5kcn1mxoyh7sww, .table th.tinytable_css_gidybs5kcn1mxoyh7sww { text-align: left; border-bottom: solid #d3d8dc 0.1em; }
-      .table td.tinytable_css_njt975r0h56s2zj79mx6, .table th.tinytable_css_njt975r0h56s2zj79mx6 { text-align: left; border-bottom: solid black 0.05em; }
-      .table td.tinytable_css_57mtwp1h378dsid9ygkc, .table th.tinytable_css_57mtwp1h378dsid9ygkc { text-align: left; }
-      .table td.tinytable_css_ek12f8f7zlp4kqnp0d9p, .table th.tinytable_css_ek12f8f7zlp4kqnp0d9p { text-align: left; border-top: solid #d3d8dc 0.1em; border-bottom: solid #d3d8dc 0.05em; }
+      .table td.tinytable_css_nuxvynf3q9is8kmwzjwd, .table th.tinytable_css_nuxvynf3q9is8kmwzjwd { text-align: center; border-bottom: solid #d3d8dc 0.1em; }
+      .table td.tinytable_css_0ppvl9cni9j0o0kk4stt, .table th.tinytable_css_0ppvl9cni9j0o0kk4stt { text-align: center; border-bottom: solid black 0.05em; }
+      .table td.tinytable_css_nl6dpc6ehtqxc8xoqjtf, .table th.tinytable_css_nl6dpc6ehtqxc8xoqjtf { text-align: center; }
+      .table td.tinytable_css_h3bysdvoxr1rc4bn8x50, .table th.tinytable_css_h3bysdvoxr1rc4bn8x50 { text-align: center; border-top: solid #d3d8dc 0.1em; border-bottom: solid #d3d8dc 0.05em; }
+      .table td.tinytable_css_ds3ynvoq7l7mme8kee5e, .table th.tinytable_css_ds3ynvoq7l7mme8kee5e { text-align: left; border-bottom: solid #d3d8dc 0.1em; }
+      .table td.tinytable_css_uz8u665gu8matnko7opf, .table th.tinytable_css_uz8u665gu8matnko7opf { text-align: left; border-bottom: solid black 0.05em; }
+      .table td.tinytable_css_dr1nl5ghev6o1ffu6kfx, .table th.tinytable_css_dr1nl5ghev6o1ffu6kfx { text-align: left; }
+      .table td.tinytable_css_s3gjsl9giusz3d5srkgl, .table th.tinytable_css_s3gjsl9giusz3d5srkgl { text-align: left; border-top: solid #d3d8dc 0.1em; border-bottom: solid #d3d8dc 0.05em; }
     </style>
     <div class="container">
-      <table class="table table-borderless" id="tinytable_p9febpma9s9r595fzgya" style="width: auto; margin-left: auto; margin-right: auto;" data-quarto-disable-processing='true'>
+      <table class="table table-borderless" id="tinytable_oceyfy1nvuab5gjk6tuw" style="width: auto; margin-left: auto; margin-right: auto;" data-quarto-disable-processing='true'>
         <thead>
         
               <tr>

diff --git a/report.html b/report.html
@@ -254,7 +254,7 @@ Table&nbsp;1: Panel Dataset Summary
 </figure>
 </div>
 </div>
-<div style="font-size:0.85em; color:#555; margin-top:-0.75em; margin-bottom:1.5em;">
+<div style="font-size:0.85em; color:#555; margin-top:0.25em; margin-bottom:1.5em;">
 <p><em>Note:</em> World Bank regional and income-group aggregate codes are excluded prior to panel construction. Panel covers 2014–2025; year coverage varies by indicator and country. Sources: World Development Indicators <span class="citation" data-cites="wb_wdi">(<a href="#ref-wb_wdi" role="doc-biblioref">World Bank, n.d.b</a>)</span>; ITU GCI <span class="citation" data-cites="itu_gci">(<a href="#ref-itu_gci" role="doc-biblioref">International Telecommunication Union, n.d.a</a>)</span>; open incident repositories <span class="citation" data-cites="wb_annex2024">(<a href="#ref-wb_annex2024" role="doc-biblioref">World Bank, 2024</a>)</span>.</p>
 </div>
 <p>The panel is unbalanced in practice: WDI controls (inflation, trade, population) are observed annually, GCI readiness is published in discrete editions (2020 and 2024 within the panel window), and the cyber incidents annex covers 2014–2022 with later years carried forward. Listwise deletion in the regressions therefore varies across specifications; minimum-sample thresholds (50 observations and 10 countries) are applied uniformly.</p>
@@ -425,7 +425,7 @@ Table&nbsp;2: Variable Dictionary
 </figure>
 </div>
 </div>
-<div style="font-size:0.85em; color:#555; margin-top:-0.75em; margin-bottom:1.5em;">
+<div style="font-size:0.85em; color:#555; margin-top:0.25em; margin-bottom:1.5em;">
 <p><em>Note:</em> Variables sourced from World Development Indicators (World Bank), ITU GCI (ITU), and open incident repositories. Imputed and derived variables are distinguished by the <code>transform</code> column. Full source metadata available in <code>data_processed/data_dictionary.csv</code>.</p>
 </div>
 <p><a href="#fig-dynamic" class="quarto-xref">Figure&nbsp;1</a> offers a high-level descriptive view of how the cyber proxy and aggregate GDP growth co-move across the panel window. The two series are standardised to a common scale to permit visual comparison. The figure is descriptive only and is not intended as evidence of any cyber–macro mechanism: common global shocks, most prominently the 2020 pandemic recession, can drive co-movement in cross-country annual means without any direct causal channel.</p>
@@ -1454,14 +1454,14 @@ Table&nbsp;6: Incidents versus Readiness Comparison: Fixed-Effects Estimates
 <img src="output/figures/comparison_coefficients.png" class="img-fluid figure-img" style="width:100.0%">
 </div>
 <figcaption class="quarto-float-caption-bottom quarto-float-caption quarto-float-fig" id="fig-coefficients-caption-0ceaefa1-69ba-4598-a22c-09a6ac19f8ca">
-Figure&nbsp;3: Fixed-Effects Coefficient Estimates: Cyber Incidents versus Readiness by Outcome
+Figure&nbsp;3: Standardized Fixed-Effects Coefficient Estimates: Cyber Incidents versus Readiness by Outcome
 </figcaption>
 </figure>
 </div>
 </div>
 </div>
-<div style="font-size:0.85em; color:#555; margin-top:-0.75em; margin-bottom:1.5em;">
-<p><em>Note:</em> Points show OLS coefficient estimates from two-way (country and year) fixed-effects models with one-year lagged cyber regressors. Horizontal bars show 95% confidence intervals constructed from country-clustered standard errors. The vertical reference line is at zero. Panels are faceted by regressor type (Incidents vs GCI Readiness); scales are free across panels to accommodate differences in units. GCI readiness values for 2021–2023 are linearly interpolated between the 2020 and 2024 editions; see <a href="#tbl-gci-qa" class="quarto-xref">Table&nbsp;3</a> for coverage details. Sources: <span class="citation" data-cites="itu_gci wb_annex2024 wb_wdi">(<a href="#ref-itu_gci" role="doc-biblioref">International Telecommunication Union, n.d.a</a>; <a href="#ref-wb_annex2024" role="doc-biblioref">World Bank, 2024</a>, <a href="#ref-wb_wdi" role="doc-biblioref">n.d.b</a>)</span>.</p>
+<div style="font-size:0.85em; color:#555; margin-top:0.25em; margin-bottom:1.5em;">
+<p><em>Note:</em> Points show standardized coefficients from two-way (country and year) fixed-effects models with one-year lagged cyber regressors. Horizontal bars show 95% confidence intervals constructed from country-clustered standard errors. The vertical reference line is at zero. Each point is the estimated change in the outcome, in standard deviations, associated with a one-standard-deviation increase in the relevant lagged cyber proxy. This standardization is used in the figure only so magnitudes can be compared across proxies on a common scale; <a href="#tbl-comparison" class="quarto-xref">Table&nbsp;6</a> reports the same models in raw units. The normalized GCI variant is a percentile-rank measure scaled from 0 to 1 within each edition, so a one-unit shift corresponds to 100 percentile points before standardization in the plot. GCI readiness values for 2021–2023 are linearly interpolated between the 2020 and 2024 editions; see <a href="#tbl-gci-qa" class="quarto-xref">Table&nbsp;3</a> for coverage details. Sources: <span class="citation" data-cites="itu_gci wb_annex2024 wb_wdi">(<a href="#ref-itu_gci" role="doc-biblioref">International Telecommunication Union, n.d.a</a>; <a href="#ref-wb_annex2024" role="doc-biblioref">World Bank, 2024</a>, <a href="#ref-wb_wdi" role="doc-biblioref">n.d.b</a>)</span>.</p>
 </div>
 </section>
 <section id="income-group-heterogeneity" class="level2" data-number="4.4">
